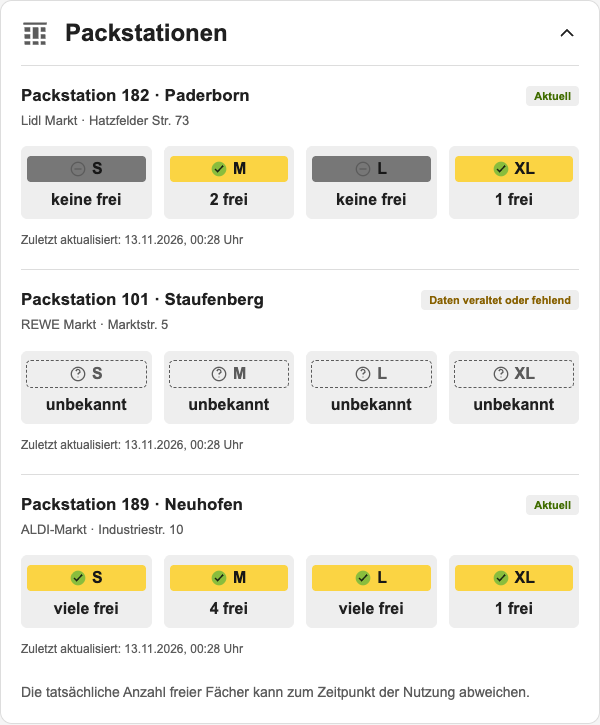
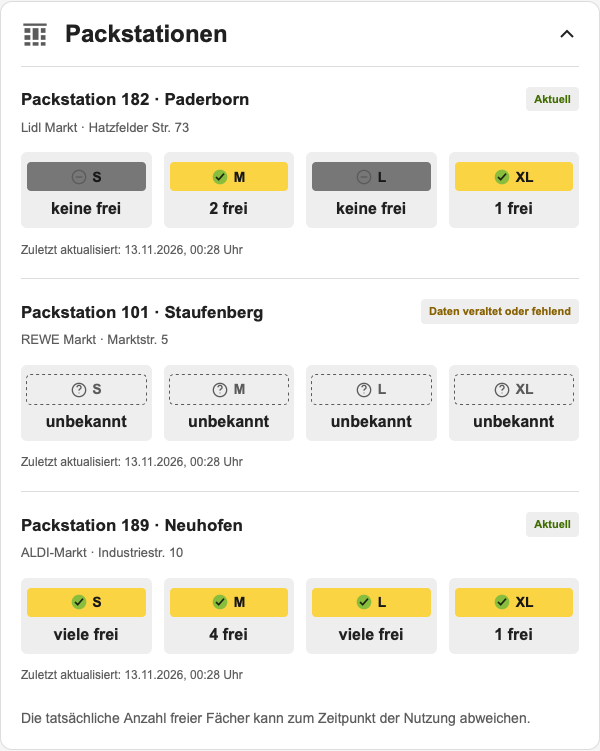
Fit compartment cards to dashboard columns and test WebKit

diff --git a/custom_components/dhl_packstation/www/styles.js b/custom_components/dhl_packstation/www/styles.js
@@ -1,31 +1,31 @@
 export const styles = `
-  :host { display:block; color:var(--primary-text-color,#f5f5f5); font-family:var(--paper-font-body1_-_font-family,Roboto,Arial,sans-serif); }
+  :host { display:block; container-type:inline-size; color:var(--primary-text-color,#f5f5f5); font-family:var(--paper-font-body1_-_font-family,Roboto,Arial,sans-serif); }
   * { box-sizing:border-box; }
   ha-card { display:block; overflow:hidden; background:var(--ha-card-background,var(--card-background-color,#191919)); border-radius:var(--ha-card-border-radius,12px); border:var(--ha-card-border-width,1px) solid var(--ha-card-border-color,var(--divider-color,#333)); }
   button,input,select { font:inherit; }
-  button { color:inherit; cursor:pointer; }
+  button { appearance:none; color:inherit; cursor:pointer; }
   button:disabled { cursor:default; }
   button:focus-visible,summary:focus-visible { outline:3px solid var(--primary-color,#03a9f4); outline-offset:3px; }
-  summary { min-height:64px; display:flex; align-items:center; gap:16px; padding:16px 20px; cursor:pointer; font-weight:700; font-size:clamp(20px,4.2vw,24px); list-style:none; }
+  summary { min-height:clamp(52px,10.7cqw,64px); display:flex; align-items:center; gap:16px; padding:12px 20px; cursor:pointer; font-weight:700; font-size:clamp(20px,4.2cqw,24px); list-style:none; }
   summary::-webkit-details-marker { display:none; }
   .locker { width:28px; height:28px; color:var(--secondary-text-color,#aaa); flex-shrink:0; }
   .chevron { margin-left:auto; width:24px; height:24px; transition:transform .15s; }
   details[open] > summary .chevron { transform:rotate(180deg); }
-  .body { padding:24px clamp(16px,4vw,48px) 28px; }
-  .sizes-header { display:flex; align-items:center; justify-content:space-between; gap:12px; margin:12px 0 24px; }
-  .sizes-header h2 { font-size:clamp(16px,3.5vw,20px); margin:0; }
+  .body { padding:clamp(8px,4cqw,24px) clamp(12px,5.3cqw,32px) 24px; }
+  .sizes-header { display:flex; align-items:center; justify-content:space-between; gap:12px; margin:0 0 clamp(12px,4cqw,24px); }
+  .sizes-header h2 { font-size:clamp(16px,3.5cqw,20px); margin:0; }
   .info { display:grid; place-items:center; background:none; border:0; padding:4px; min-width:44px; min-height:44px; color:var(--secondary-text-color,#aaa); }
   .info svg { width:28px; height:28px; }
-  .grid { display:grid; grid-template-columns:repeat(4,minmax(0,1fr)); gap:clamp(8px,2vw,12px); }
-  .tile { border:0; background:var(--secondary-background-color,#2d2d2d); border-radius:7px; min-width:0; height:clamp(160px,31vw,230px); padding:10px 8px; display:flex; flex-direction:column; align-items:center; gap:6px; text-align:center; }
+  .grid { display:grid; grid-template-columns:repeat(4,minmax(0,1fr)); gap:clamp(8px,2cqw,12px); }
+  .tile { border:0; background:var(--secondary-background-color,#2d2d2d); border-radius:7px; min-width:0; height:clamp(160px,38cqw,230px); padding:10px 8px; display:grid; grid-template-rows:28px minmax(0,1fr) 2.4em; justify-items:center; gap:6px; text-align:center; font-size:clamp(12px,2.7cqw,16px); line-height:1.2; }
   .state-icon { display:block; width:28px; height:28px; flex-shrink:0; }
   .yes { color:#89bd3d; } .neutral { color:var(--secondary-text-color,#aaa); }
-  .shape-space { width:100%; flex:1; display:flex; align-items:flex-end; margin-top:8px; }
-  .shape { width:100%; display:grid; place-items:center; font-weight:750; font-size:clamp(20px,4.5vw,28px); color:#171717; background:#fbd443; border:3px solid #ac9736; border-radius:6px; }
-  .shape.s { height:25%; min-height:28px; } .shape.m { height:42%; } .shape.l { height:56%; } .shape.xl { height:90%; }
+  .shape-space { width:100%; height:100%; min-height:0; display:flex; align-items:flex-end; }
+  .shape { width:100%; min-height:calc(1em + 8px); display:grid; place-items:center; font-weight:750; font-size:clamp(18px,4.8cqw,28px); line-height:1; color:#171717; background:#fbd443; border:3px solid #ac9736; border-radius:6px; }
+  .shape.s { height:25%; } .shape.m { height:42%; } .shape.l { height:56%; } .shape.xl { height:90%; }
   .tile.unknown .shape,.tile.empty .shape { background:var(--disabled-color,#777); border-color:var(--secondary-text-color,#aaa); color:var(--card-background-color,#191919); }
   .tile.unknown .shape { background:transparent; color:var(--secondary-text-color,#aaa); border-style:dashed; }
-  .count { font-size:clamp(12px,2.7vw,16px); line-height:1.2; font-weight:700; overflow-wrap:anywhere; }
+  .count { font-size:clamp(12px,2.7cqw,16px); line-height:1.2; font-weight:700; overflow-wrap:anywhere; }
   .timestamp { margin-top:24px; padding:12px; border-radius:6px; background:var(--secondary-background-color,#242424); color:var(--secondary-text-color,#aaa); font-size:14px; line-height:1.5; }
   .note { color:var(--secondary-text-color,#aaa); font-size:14px; line-height:1.5; margin:24px 0 0; }
   .warning { color:var(--warning-color,#e3b341); font-size:14px; margin:0 0 16px; line-height:1.5; }
@@ -48,6 +48,6 @@ export const styles = `
   dialog::backdrop { background:rgba(0,0,0,.55); }
   dialog h2 { font-size:20px; margin:0 0 16px; } dialog p { font-size:15px; line-height:1.6; }
   .close { float:right; min-height:44px; padding:8px 16px; border:1px solid var(--divider-color,#555); border-radius:6px; color:var(--primary-text-color,#fff); background:var(--secondary-background-color,#333); }
-  @media(max-width:360px) { .body { padding:8px 12px 20px; } summary { padding:16px; gap:12px; } .tile { padding:8px 5px; } .overview { padding:0 12px 16px; } }
+  @container(max-width:360px) { .body { padding:8px 12px 20px; } summary { padding:12px 16px; gap:12px; } .tile { padding:8px 5px; } .overview { padding:0 12px 16px; } }
   @media(prefers-reduced-motion:reduce) { .chevron { transition:none; } }
 `;

diff --git a/tests/frontend/preview.html b/tests/frontend/preview.html
@@ -5,7 +5,7 @@
   <meta name="viewport" content="width=device-width,initial-scale=1">
   <title>DHL Packstation – Kartenvorschau</title>
   <style>
-    body { margin:0; padding:16px; font-family:Roboto,Arial,sans-serif; background:#101010; color:#f5f5f5; --primary-text-color:#f5f5f5; --secondary-text-color:#b2b2b2; --ha-card-background:#191919; --card-background-color:#191919; --secondary-background-color:#2d2d2d; --divider-color:#333; --disabled-color:#777; --primary-color:#03a9f4; --success-color:#89bd3d; --warning-color:#e3b341; }
+    body { margin:0; padding:16px; font-family:Roboto,Arial,sans-serif; font-size:14px; line-height:1.5; background:#101010; color:#f5f5f5; --primary-text-color:#f5f5f5; --secondary-text-color:#b2b2b2; --ha-card-background:#191919; --card-background-color:#191919; --secondary-background-color:#2d2d2d; --divider-color:#333; --disabled-color:#777; --primary-color:#03a9f4; --success-color:#89bd3d; --warning-color:#e3b341; }
     body.light { background:#f5f5f5; color:#202020; --primary-text-color:#202020; --secondary-text-color:#5b5b5b; --ha-card-background:#fff; --card-background-color:#fff; --secondary-background-color:#eee; --divider-color:#ddd; --success-color:#416d00; --warning-color:#876000; }
     main { max-width:600px; margin:auto; display:grid; gap:24px; }
     h1 { font-size:15px; font-weight:500; color:var(--secondary-text-color); margin:8px 0 0; }

diff --git a/tests/frontend/browser_check.py b/tests/frontend/browser_check.py
@@ -32,10 +32,12 @@ async def main():
     errors, checks = [], []
     try:
         async with async_playwright() as playwright:
+            engine = os.environ.get("BROWSER_ENGINE", "chromium")
+            assert engine in {"chromium", "webkit"}
             options = {"headless": True}
-            if channel := os.environ.get("BROWSER_CHANNEL"):
+            if (channel := os.environ.get("BROWSER_CHANNEL")) and engine == "chromium":
                 options["channel"] = channel
-            browser = await playwright.chromium.launch(**options)
+            browser = await getattr(playwright, engine).launch(**options)
             page = await browser.new_page(viewport={"width": 768, "height": 1400})
             page.on("pageerror", lambda error: errors.append(str(error)))
             await page.goto(
@@ -72,6 +74,48 @@ async def main():
                 await single.screenshot(path=str(artifact_dir / f"single-{theme}.png"))
                 await multi.screenshot(path=str(artifact_dir / f"overview-{theme}.png"))
             await page.evaluate("document.body.classList.remove('light')")
+            dimensions = {}
+            for viewport in [400, 1920]:
+                await page.set_viewport_size({"width": viewport, "height": 1600})
+                for card_width in [280, 320, 360]:
+                    await page.locator("main").evaluate(
+                        "(el, width) => el.style.maxWidth = `${width}px`", card_width
+                    )
+                    geometry = await single.evaluate("""element => {
+                        const root = element.shadowRoot;
+                        const shapes = [...root.querySelectorAll('.shape')];
+                        return {
+                            contained: shapes.every(el => {
+                                const shape = el.getBoundingClientRect();
+                                const range = document.createRange();
+                                range.selectNodeContents(el);
+                                const label = range.getBoundingClientRect();
+                                return label.top >= shape.top - 1 && label.bottom <= shape.bottom + 1
+                                    && label.left >= shape.left - 1 && label.right <= shape.right + 1;
+                            }),
+                            tileHeight: root.querySelector('.tile').getBoundingClientRect().height,
+                            shapeFont: getComputedStyle(shapes[0]).fontSize,
+                            bodyPadding: getComputedStyle(root.querySelector('.body')).paddingLeft,
+                        };
+                    }""")
+                    assert geometry["contained"], (
+                        engine,
+                        viewport,
+                        card_width,
+                        geometry,
+                    )
+                    if viewport == 400:
+                        dimensions[card_width] = geometry
+                    else:
+                        assert geometry == dimensions[card_width], (
+                            card_width,
+                            geometry,
+                            dimensions[card_width],
+                        )
+                checks.append(f"narrow cards 280/320/360px in {viewport}px viewport")
+            await page.locator("main").evaluate("el => el.style.maxWidth = '360px'")
+            await single.screenshot(path=str(artifact_dir / "single-narrow.png"))
+            await page.locator("main").evaluate("el => el.style.maxWidth = '600px'")
             await single.locator("summary").focus()
             await page.keyboard.press("Enter")
             assert not await single.locator("details").get_attribute("open") == ""
@@ -153,7 +197,12 @@ async def main():
     finally:
         server.shutdown()
         server.server_close()
-    result = {"checks": checks, "console_errors": errors, "fixtures": True}
+    result = {
+        "engine": engine,
+        "checks": checks,
+        "console_errors": errors,
+        "fixtures": True,
+    }
     (artifact_dir / "browser-results.json").write_text(json.dumps(result, indent=2))
     print(json.dumps(result, indent=2))
 

diff --git a/tests/test_frontend.py b/tests/test_frontend.py
@@ -25,7 +25,7 @@ async def test_cards_register_once_per_integration(hass):
         assert config.cache_headers is False
         for name in ["cards.js", "data.js", "view.js", "styles.js", "editor.js"]:
             assert (Path(config.path) / name).is_file()
-    assert hass.data[DATA_EXTRA_MODULE_URL] == {"/dhl_packstation/cards.js?v=0.2.0b1"}
+    assert hass.data[DATA_EXTRA_MODULE_URL] == {"/dhl_packstation/cards.js?v=0.2.0b2"}
 
 
 async def test_static_modules_are_served(hass, hass_client):

diff --git a/README.md b/README.md
@@ -2,7 +2,7 @@
 
 Home Assistant integration for the free S, M, L, and XL compartments of German DHL Packstations. Set up each station from the Home Assistant interface using its postal code and Packstation number. No DHL account or developer key is required.
 
-**Status: public beta, 0.2.0b1.** Available as a custom repository; not yet included in the default Marketplace catalog. This is an independent community project, not an official DHL product. Field testing is still in progress.
+**Status: public beta, 0.2.0b2.** Available as a custom repository; not yet included in the default Marketplace catalog. This is an independent community project, not an official DHL product. Field testing is still in progress.
 
 [Deutsche Installationsanleitung](docs/INSTALLATION_DE.md)
 
@@ -123,7 +123,7 @@ Run the dependency-free JavaScript checks with Node.js 22 or newer:
 node --test tests/frontend/*.test.mjs
 ```
 
-The browser CI job runs the real bundled elements in Chromium with Home Assistant state fixtures. It covers both themes at 320/768/1024/1440px, card selection, stale data, recovery, more-info events, the visual editor, keyboard navigation, and axe WCAG A/AA checks. It is a component/browser test, not an end-to-end test inside a production Home Assistant installation.
+The browser CI jobs run the real bundled elements in Chromium and WebKit with Home Assistant state fixtures. They cover both themes at 320/768/1024/1440px and 280/320/360px cards inside narrow and wide browser windows, card selection, stale data, recovery, more-info events, the visual editor, keyboard navigation, and axe WCAG A/AA checks. It is a component/browser test, not an end-to-end test inside a production Home Assistant installation.
 
 Automated tests use the real Home Assistant flow, config entry, device, entity, timer, and coordinator implementations with mocked DHL HTTP responses. External sockets are disabled in these tests. Live requests are a separate, explicitly recorded check. See [the German field test plan](docs/TESTPLAN_DE.md), [release checklist](docs/RELEASE_CHECKLIST.md), and [source references](docs/SOURCES.md).
 

diff --git a/docs/SOURCES.md b/docs/SOURCES.md
@@ -30,3 +30,5 @@ The 15-minute poll interval, configurable 60-minute default maximum data age and
 - [Frontend module helper in HA 2026.11.1](https://github.com/home-assistant/core/blob/2026.11.1/homeassistant/components/frontend/__init__.py): `add_extra_js_url` loads the included module without changing dashboard storage.
 
 The cards display public station metadata from the integration's authenticated entity states. The static path contains code only. No third-party script host or external frontend library is used at runtime.
+
+- [CSS container queries](https://developer.mozilla.org/en-US/docs/Web/CSS/Guides/Containment/Container_queries): card-local responsive lengths and breakpoints; verified in Chromium and WebKit.

diff --git a/CHANGELOG.md b/CHANGELOG.md
@@ -1,5 +1,12 @@
 # Changelog
 
+## 0.2.0b2
+
+- Size cards by their own width instead of the browser viewport, fixing stretched compartments and excessive padding in narrow Home Assistant dashboard columns.
+- Keep compartment labels inside their yellow shapes with explicit line height, minimum shape height and stable grid rows, including Safari/WebKit.
+- Test 280/320/360px cards inside both 400px and 1920px viewports, including label geometry and consistent sizing.
+- Run the browser regression suite in both Chromium and WebKit.
+
 ## 0.2.0b1
 
 First public beta, for field testing through a custom Marketplace/HACS repository.

diff --git a/docs/INSTALLATION_DE.md b/docs/INSTALLATION_DE.md
@@ -1,6 +1,6 @@
 # DHL Packstation – Beta installieren
 
-Version: **0.2.0b1**, benötigt **Home Assistant 2026.10.4 oder neuer**.
+Version: **0.2.0b2**, benötigt **Home Assistant 2026.10.4 oder neuer**.
 
 ## Über Marketplace / HACS
 
